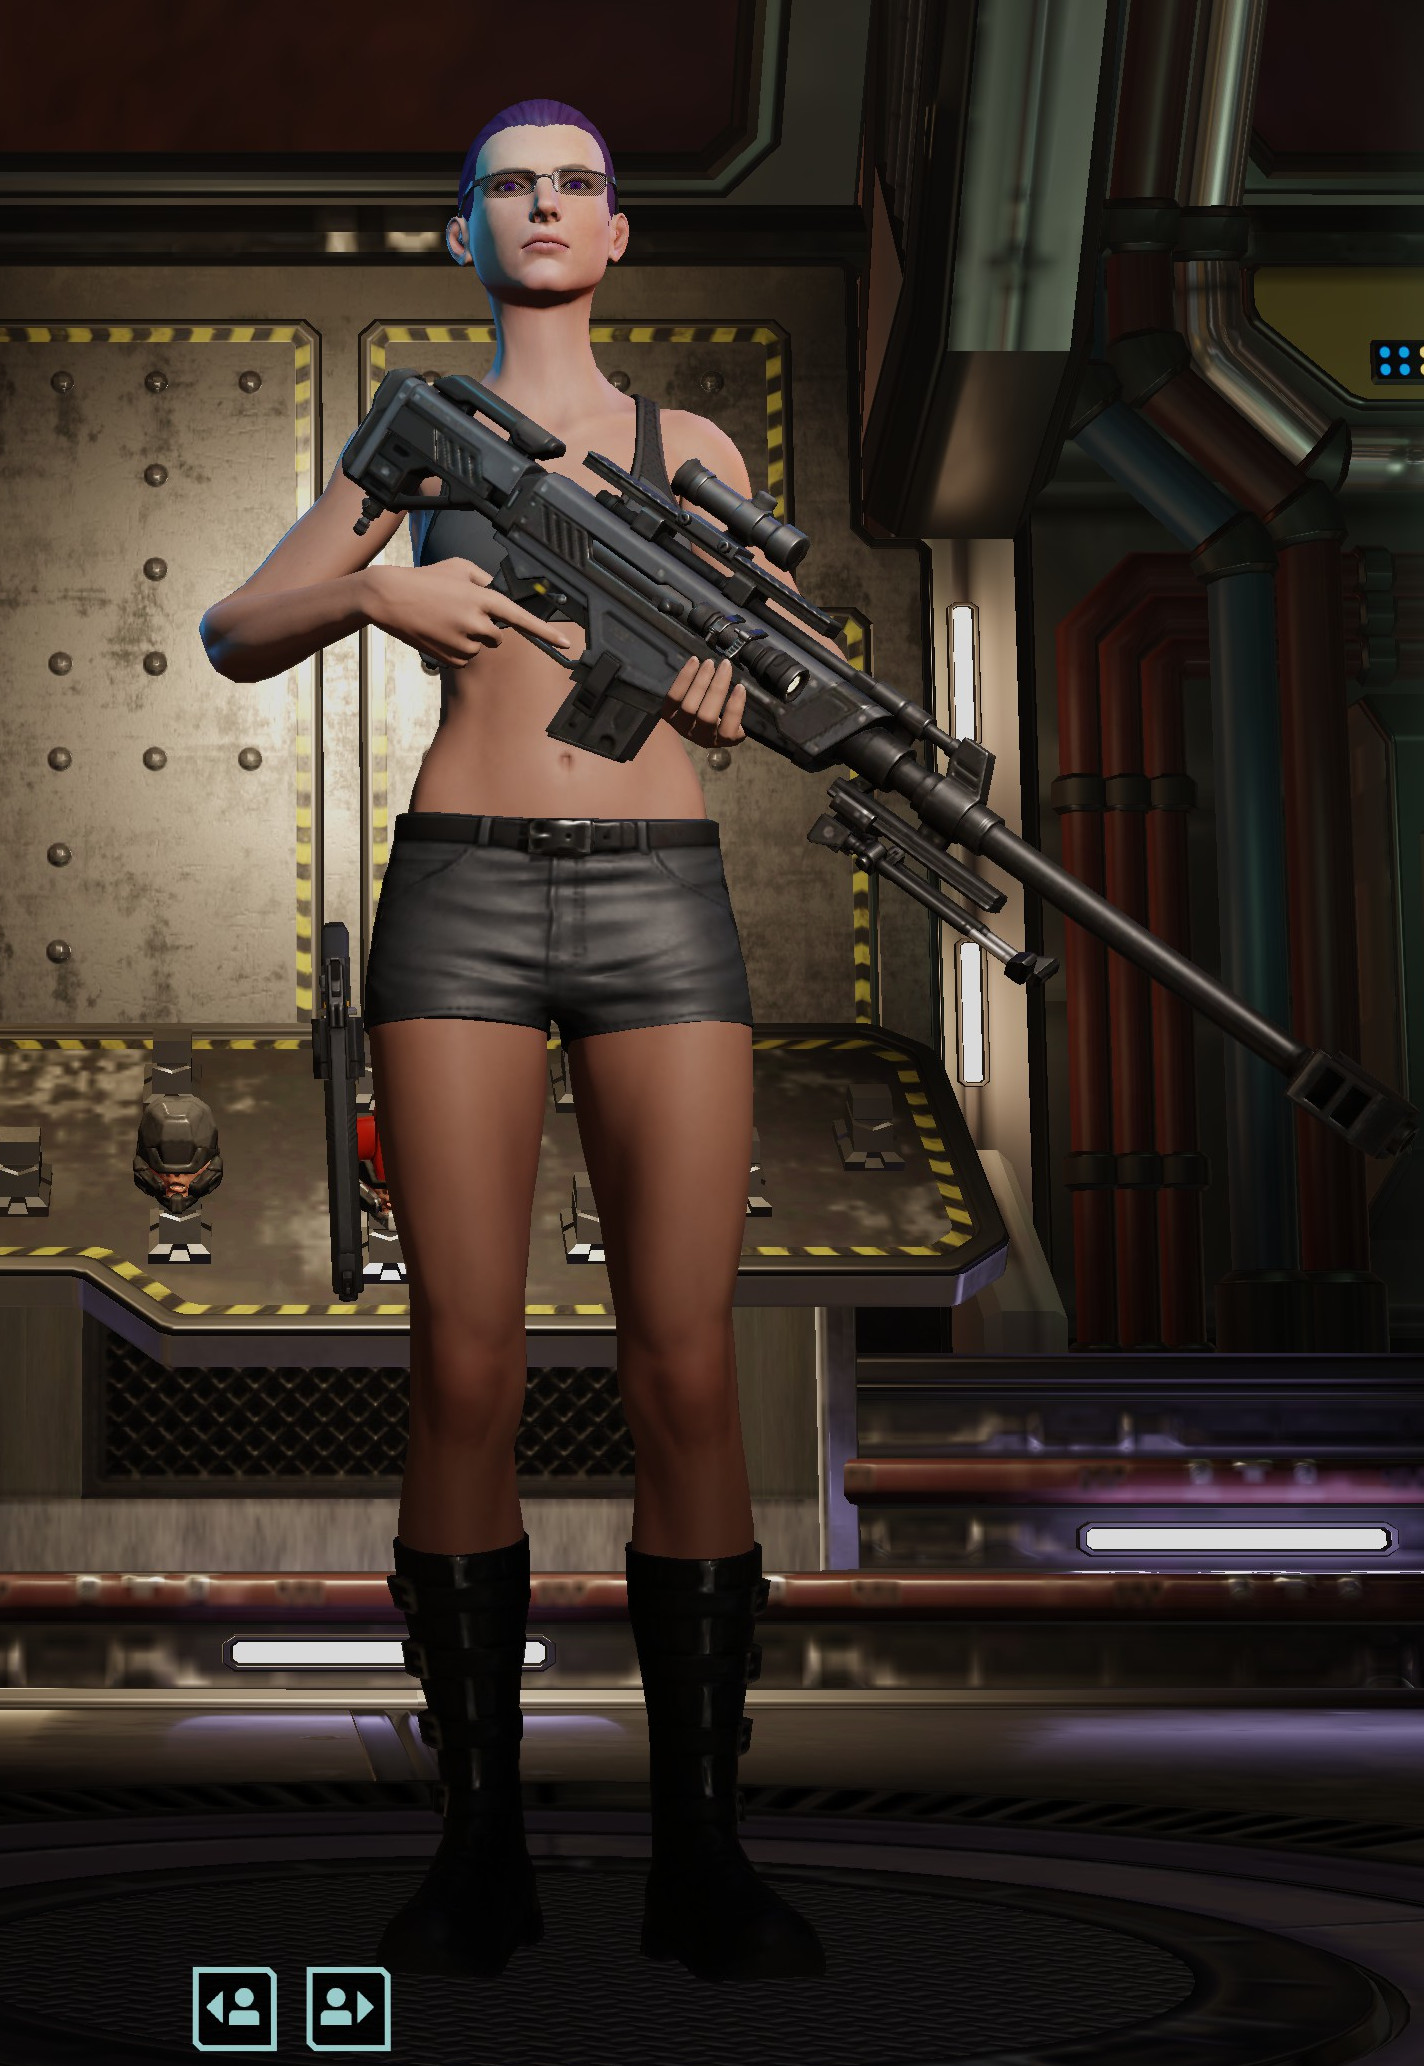
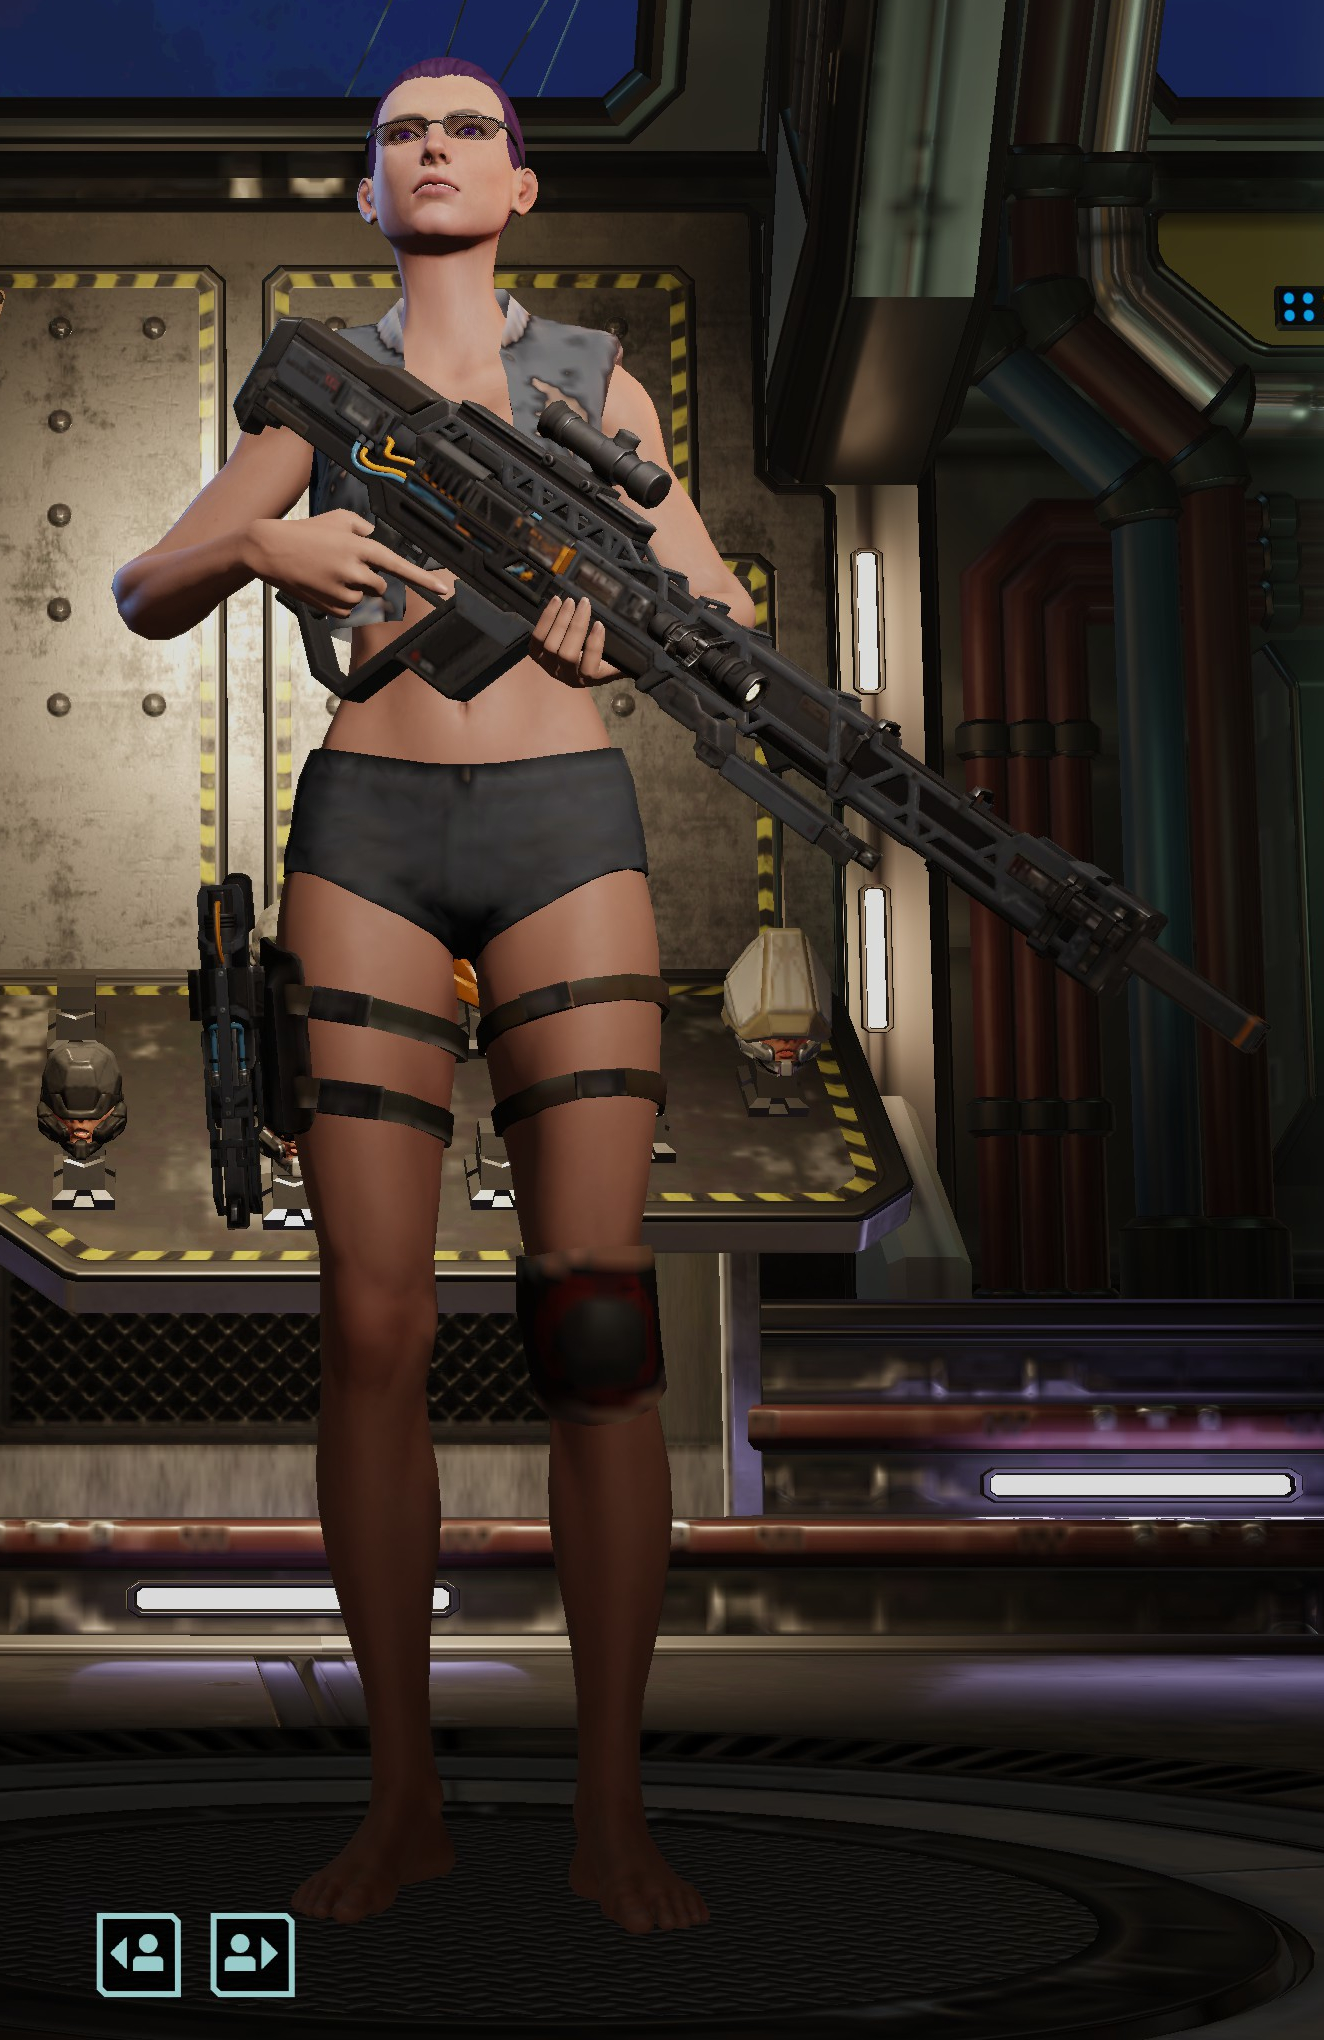
feat: things and stuff (#577)
* feat: new outfits

* feat: replace XCOM image

diff --git a/src/assets/data/outfits.ts b/src/assets/data/outfits.ts
@@ -332,6 +332,15 @@ export const Outfits: Outfit[] = [
     credits: {},
   },
   {
+    name: 'Exercise Gear',
+    fileName: 'exercise.png',
+    description: 'Naomi does try to hit the gym sometimes...',
+    alt: 'Naomi wearing a black sports bra and  black leggings.',
+    credits: {
+      outfit: 'https://booth.pm/en/items/4454893',
+    },
+  },
+  {
     name: 'Fairy Skirt',
     fileName: 'fairy.png',
     description: 'Now she only needs her wings.',
@@ -532,6 +541,15 @@ export const Outfits: Outfit[] = [
       'He Took Everything From Us. Right Here, He Stabbed Vander In The Back, Just Like He Planned To Do With Me.',
     alt: 'Naomi wearing a black crop top, purple striped pants, and purple gloves.',
     credits: {},
+  },
+  {
+    name: 'Jumpsuit',
+    fileName: 'jumpsuit.png',
+    description: 'She is actually a secret agent.',
+    alt: 'Naomi wearing a black jumpsuit with a front zipper pulled fully down.',
+    credits: {
+      outfit: 'https://booth.pm/en/items/4454679',
+    },
   },
   {
     name: 'Kimono',
